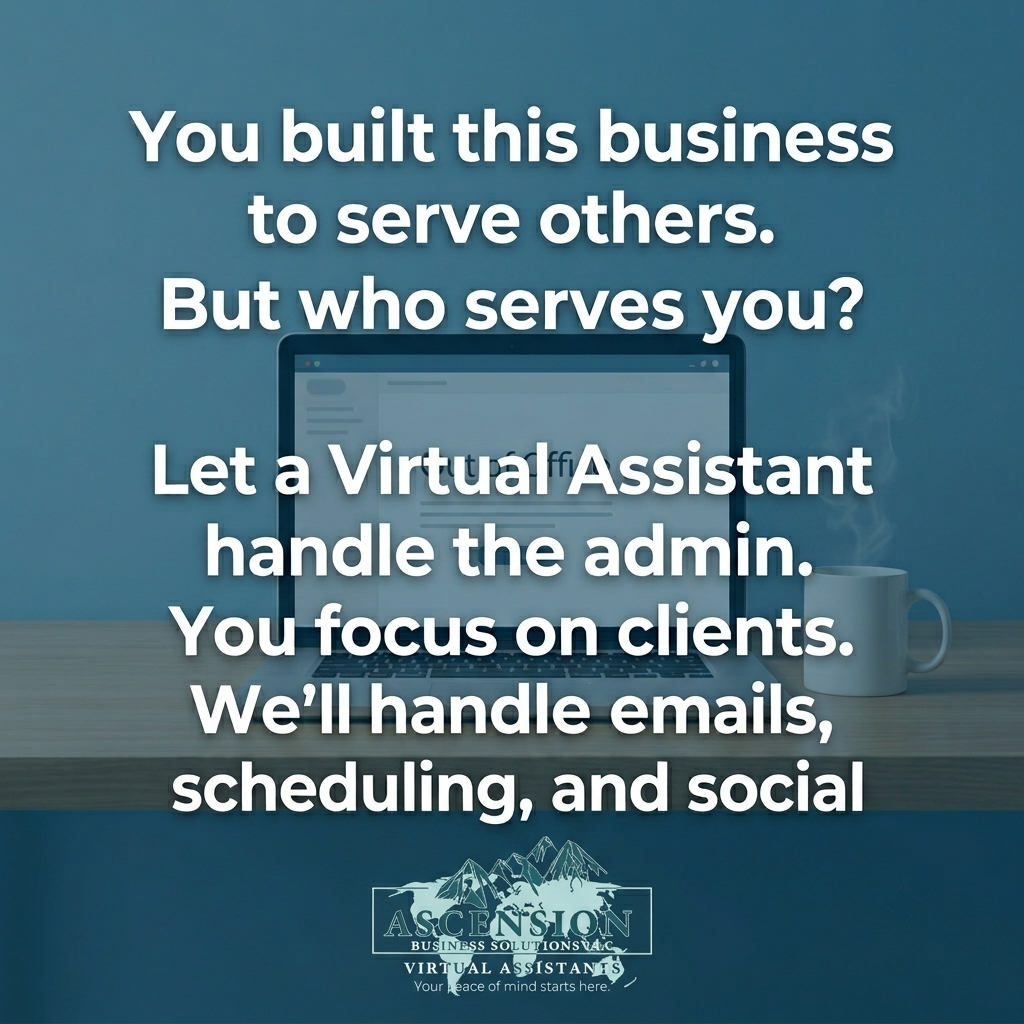
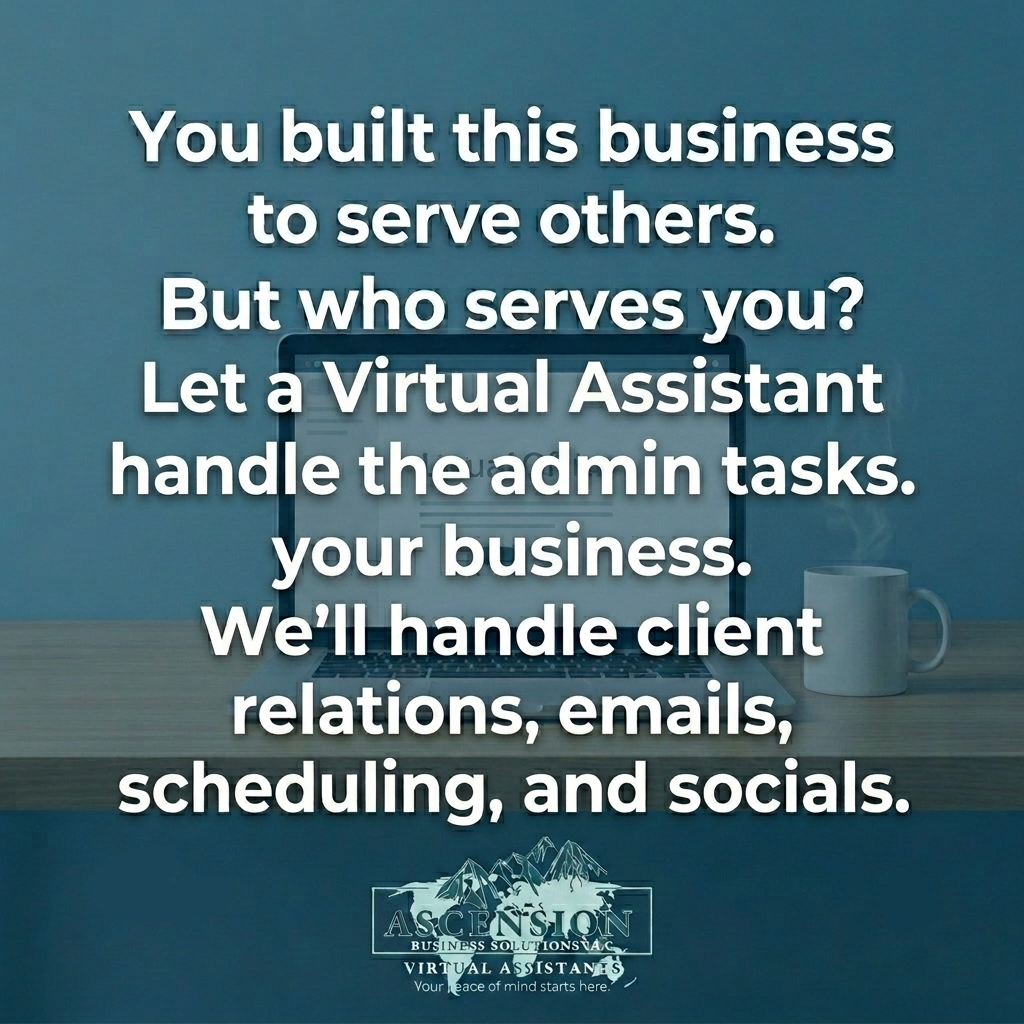
Initial portfolio commit without large video

diff --git a/src/App.js b/src/App.js
@@ -82,10 +82,9 @@ function App() {
 
   const absSamplePost = {
     eyebrow: 'Sample Post',
-    title: '4 Types of Graphic Design by ABS',
+    title: 'Graphic Designs | ABS',
     intro: 'A sample post style for ABS that presents the four core content formats in one clean, professional overview.',
     body: 'This post brings carousel posts, static posts, infographics, and story graphics together in a single polished layout so the full ABS design system can be viewed at once.',
-    callout: 'Use this as the main ABS reference post for training, branding, or portfolio presentation.',
     types: [
       {
         title: 'Carousel Post',
@@ -129,7 +128,6 @@ function App() {
     <div className="portfolio">
       <header className="hero">
         <div className="hero-copy">
-          <p className="eyebrow">Portfolio</p>
           <h1>Kent Paul Vergara</h1>
           <h2>Strategic Social Media Manager | Virtual Assistant | Content Creator</h2>
           <p className="hero-summary">
@@ -372,18 +370,125 @@ function App() {
         </div>
       )}
 
-      <section className="grid two-col">
-        <div className="card">
-          <h3>Skills & Tools</h3>
-          <ul className="clean-list">
-            <li>Canva / Adobe Express</li>
-            <li>Meta Business Suite</li>
-            <li>Content writing and editing</li>
-            <li>Scheduling and workflow organization</li>
-            <li>Basic analytics and reporting</li>
-          </ul>
-        </div>
-      </section>
+<section>
+  <div className="section-heading">
+    <p className="eyebrow">Creative Gallery</p>
+    <h3>Photo & Video Edits</h3>
+  </div>
+
+  <div className="card">
+    <p style={{color: '#4f6470', marginBottom: '1.5rem'}}>
+      A collection of my creative work including photo manipulations, color grading, 
+      and video editing projects.
+    </p>
+
+    {/* Photo Edits - 3 photos */}
+    <h4 style={{marginBottom: '1rem', color: '#2f5f68'}}>Photo Edits</h4>
+    <div style={{
+      display: 'grid',
+      gridTemplateColumns: 'repeat(auto-fit, minmax(250px, 1fr))',
+      gap: '1.5rem',
+      marginBottom: '2rem'
+    }}>
+      {/* Photo 1 */}
+      <div 
+        onClick={() => setSelectedImage({src: '/your-photo-1.jpg', title: 'Photo Edit 1'})} 
+        style={{cursor: 'pointer'}}
+      >
+        <img 
+          src="/your-photo-1.jpg" 
+          alt="Photo edit 1" 
+          style={{width: '100%', borderRadius: '12px', border: '1px solid #dce5e7'}} 
+        />
+        <p style={{marginTop: '0.5rem', fontSize: '0.85rem', textAlign: 'center', color: '#4f6470'}}>
+        </p>
+      </div>
+
+      {/* Photo 2 */}
+      <div 
+        onClick={() => setSelectedImage({src: '/your-photo-2.jpg', title: 'Photo Edit 2'})} 
+        style={{cursor: 'pointer'}}
+      >
+        <img 
+          src="/your-photo-2.jpg" 
+          alt="Photo edit 2" 
+          style={{width: '100%', borderRadius: '12px', border: '1px solid #dce5e7'}} 
+        />
+        <p style={{marginTop: '0.5rem', fontSize: '0.85rem', textAlign: 'center', color: '#4f6470'}}>
+        </p>
+      </div>
+
+      {/* Photo 3 */}
+      <div 
+        onClick={() => setSelectedImage({src: '/your-photo-3.jpg', title: 'Photo Edit 3'})} 
+        style={{cursor: 'pointer'}}
+      >
+        <img 
+          src="/your-photo-3.jpg" 
+          alt="Photo edit 3" 
+          style={{width: '100%', borderRadius: '12px', border: '1px solid #dce5e7'}} 
+        />
+        <p style={{marginTop: '0.5rem', fontSize: '0.85rem', textAlign: 'center', color: '#4f6470'}}>
+        </p>
+      </div>
+    </div>
+
+    {/* Video Edits - 2 videos */}
+    <h4 style={{marginBottom: '1rem', color: '#2f5f68'}}>Video Edits</h4>
+    <div style={{
+      display: 'grid',
+      gridTemplateColumns: 'repeat(auto-fit, minmax(300px, 1fr))',
+      gap: '1.5rem'
+    }}>
+      {/* Video 1 */}
+      <div>
+        <video 
+          controls 
+          style={{width: '100%', borderRadius: '12px', border: '1px solid #dce5e7'}}
+          preload="metadata"
+        >
+          <source src="/your-video-1.mp4" type="video/mp4" />
+          Your browser does not support the video tag.
+        </video>
+        <p style={{marginTop: '0.5rem', fontSize: '0.85rem', textAlign: 'center', color: '#4f6470'}}>
+          
+        </p>
+      </div>
+
+      {/* Video 2 */}
+      <div>
+        <video 
+          controls 
+          style={{width: '100%', borderRadius: '12px', border: '1px solid #dce5e7'}}
+          preload="metadata"
+        >
+          <source src="/your-video-2.mp4" type="video/mp4" />
+          Your browser does not support the video tag.
+        </video>
+        <p style={{marginTop: '0.5rem', fontSize: '0.85rem', textAlign: 'center', color: '#4f6470'}}>
+  
+        </p>
+      </div>
+    </div>
+  </div>
+</section>
+
+{/* Skills & Tools section */}
+<section className="grid two-col">
+  <div className="card">
+    <h3>Skills & Tools</h3>
+    <ul className="clean-list">
+      <li>Canva / Adobe Express</li>
+      <li>Meta Business Suite</li>
+      <li>Content writing and editing</li>
+      <li>Scheduling and workflow organization</li>
+      <li>Basic analytics and reporting</li>
+      <li>Adobe Photoshop / Lightroom</li>
+      <li>Video Editing (CapCut / Da Vincci Resolve)</li>
+      <li>Color Grading & Retouching</li>
+    </ul>
+  </div>
+</section>
 
       <section>
         <div className="section-heading">

diff --git a/src/App.css b/src/App.css
@@ -99,7 +99,12 @@ section,
   color: #5fb3b0;
   display: inline-block;
 }
-
+.eyebrow-logo {
+  height: 35px;
+  width: auto;
+  display: block;
+  margin-bottom: 0.8rem;
+}
 .hero-tags {
   display: flex;
   flex-wrap: wrap;